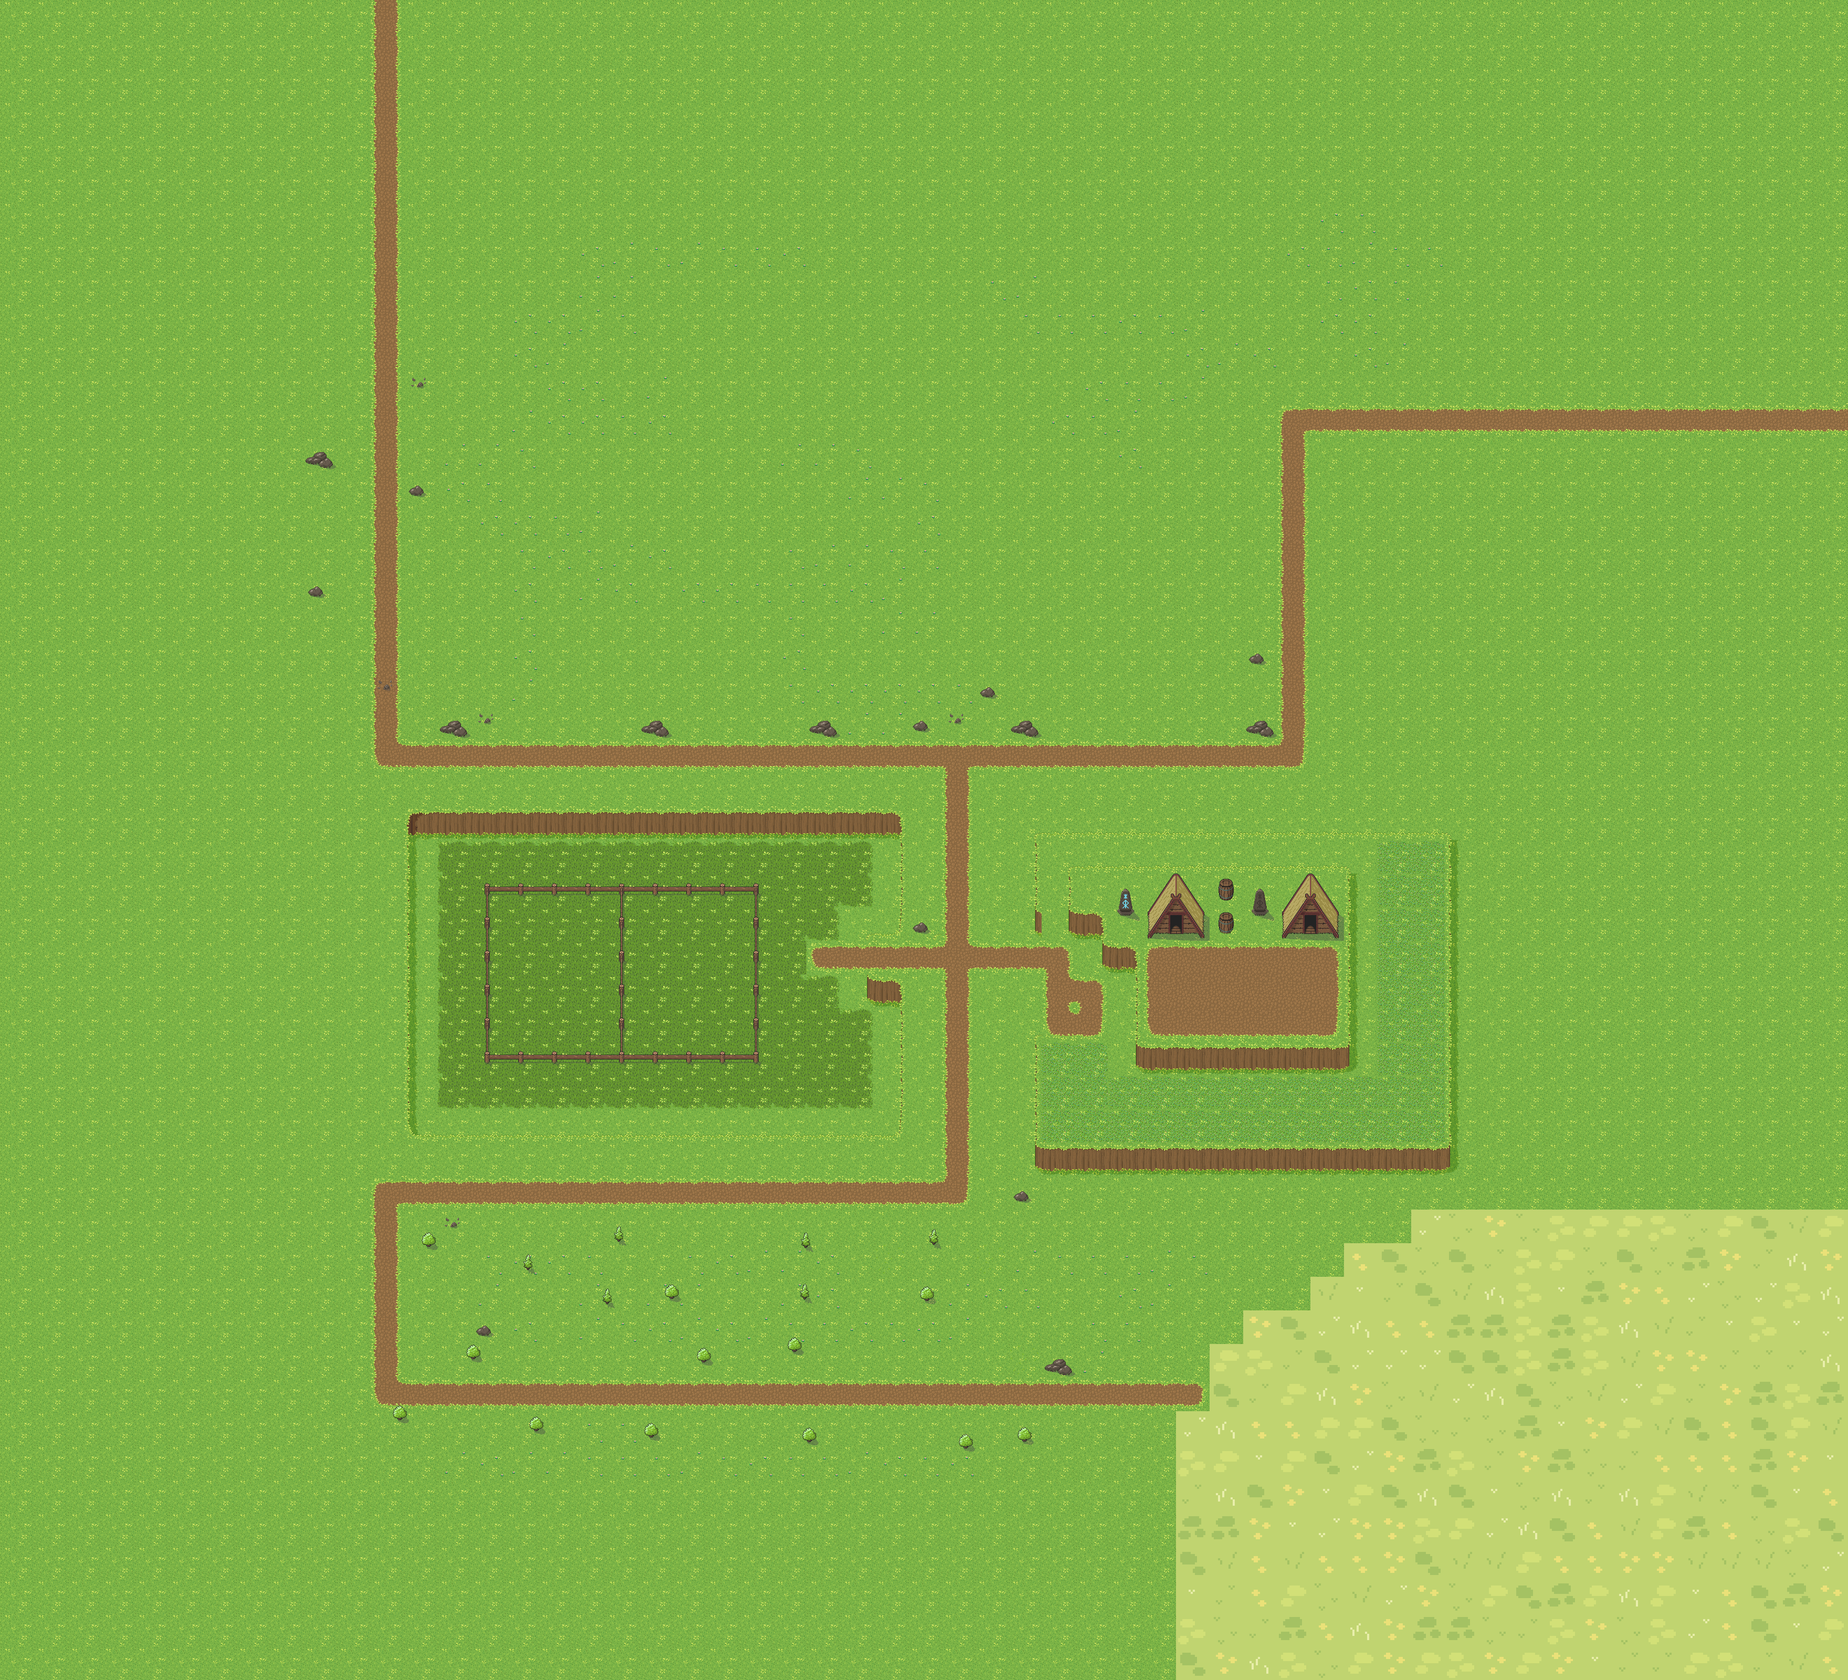
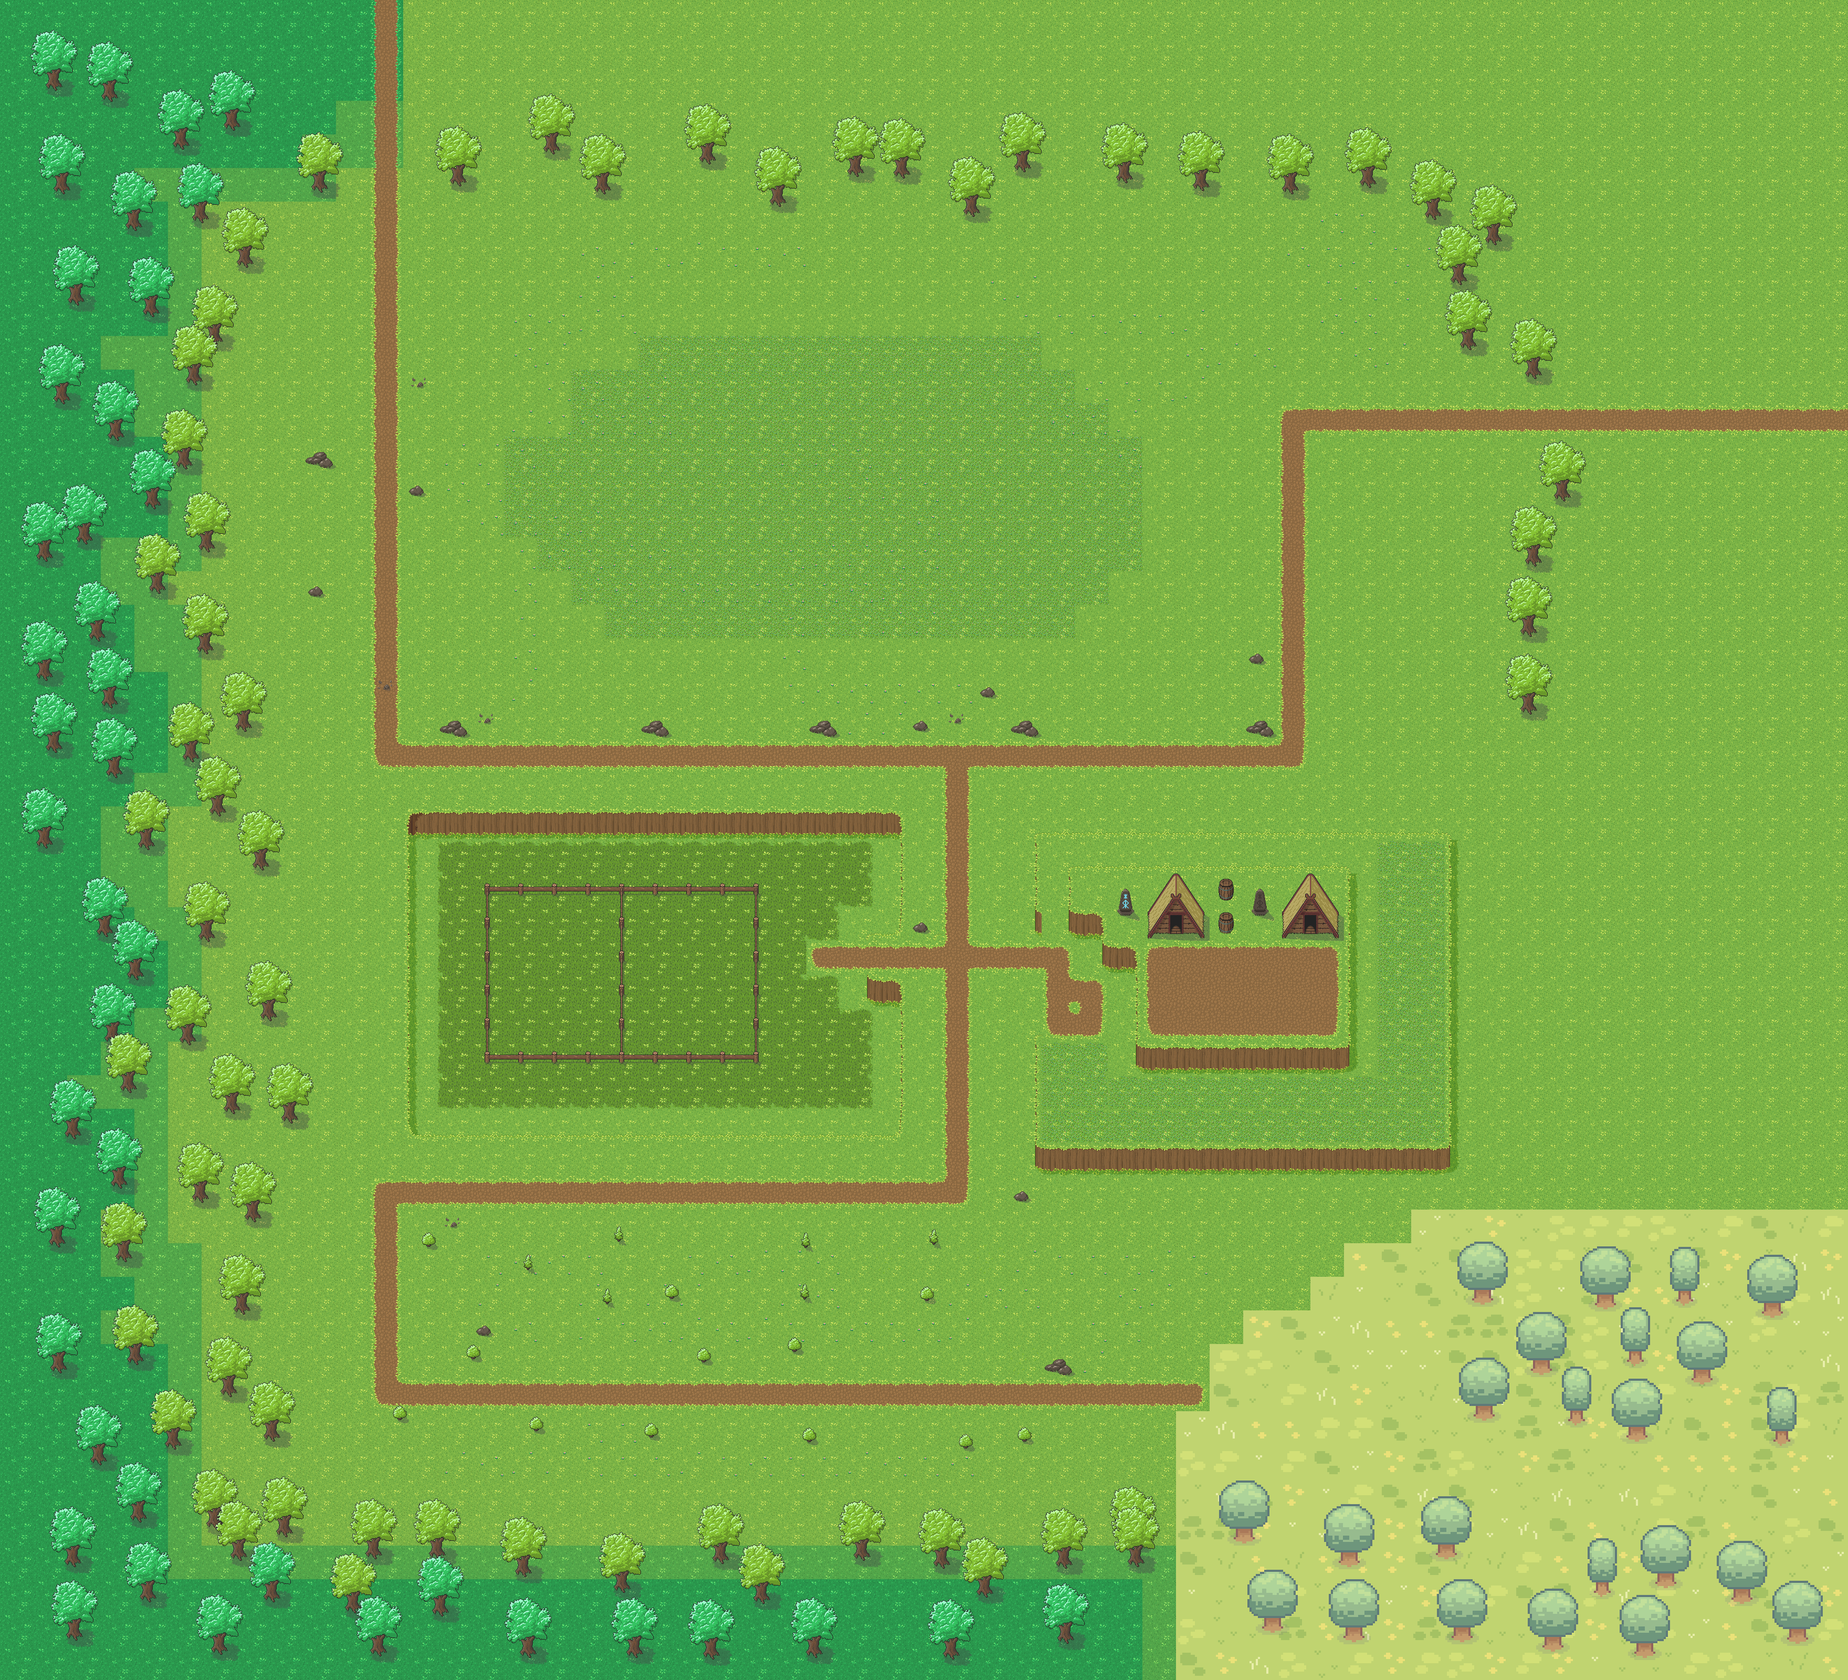
- Adjusted completed_objectives.txt - Added some trees to to Forest.tmx/Forest.png - Added some new plans to notes.txt - Added map constants to settings.py - Added comments and type hint to soil.py, moreover soil tile sprite checker now uses switch-case (match-case in python) - Updated README.md

diff --git a/code/soil.py b/code/soil.py
@@ -46,7 +46,7 @@ class Plant(pygame.sprite.Sprite):
         self.image = self.frames[self.age]
         self.y_offset = -16 if plant_type == "corn" else -8
         self.rect = self.image.get_rect(midbottom=soil.rect.midbottom +
-                                        pygame.math.Vector2(0, self.y_offset))
+                                                  pygame.math.Vector2(0, self.y_offset))
         self.z = LAYERS['ground plant']
 
     def grow(self):
@@ -64,11 +64,13 @@ class Plant(pygame.sprite.Sprite):
 
             self.image = self.frames[int(self.age)]
             self.rect = self.image.get_rect(midbottom=self.soil.rect.midbottom +
-                                            pygame.math.Vector2
-                                            (0, self.y_offset))
+                                                      pygame.math.Vector2
+                                                      (0, self.y_offset))
 
 
 class SoilLayer:
+    grid: list[list[str]]
+
     def __init__(self, all_sprites: pygame.sprite.Group,
                  collision_sprites: pygame.sprite.Group):
         # sprite groups
@@ -84,6 +86,7 @@ class SoilLayer:
 
         self.create_soil_grid()
         self.create_hit_rects()
+
 
         # sounds
         self.hoe_sound = pygame.mixer.Sound('../audio/hoe.wav')
@@ -169,7 +172,13 @@ class SoilLayer:
         is_watered = 'W' in cell
         return is_watered
 
-    def plant_seed(self, target_pos, selected_seed):
+    def plant_seed(self, target_pos, selected_seed: str):
+        """
+        Plants a seed in the relevant soil tile
+        :param target_pos: target location of seed planting
+        :param selected_seed: the seed type which will be planted
+        :return: None
+        """
         for soil_sprite in self.soil_sprites:
             if soil_sprite.rect.collidepoint(target_pos):
                 self.plant_sound.play()
@@ -188,10 +197,18 @@ class SoilLayer:
         return False
 
     def update_plants(self):
+        """
+        Grows the plants, originally used for night cycle
+        :return: None
+        """
         for plant in self.plant_sprites.sprites():
             plant.grow()
 
     def create_soil_tiles(self):
+        """
+        Sets the tile of soil based on what other soil tiles there are beside it
+        :return: None
+        """
         self.soil_sprites.empty()
         for index_row, row in enumerate(self.grid):
             for index_col, cell in enumerate(row):
@@ -205,30 +222,49 @@ class SoilLayer:
 
                     tile_type = 'o'
 
-                    # all sides
-                    if all((t, r, b, l)): tile_type = 'x'
+                    # switch case rather than if statement (added 27-05-2023)
+                    match (t, l, b, r):
+                        # all sides
+                        case (True, True, True, True):
+                            tile_type = 'x'
 
-                    # horizontal tiles only
-                    if l and not any(((t, r, b))): tile_type = 'r'
-                    if r and not any(((t, l, b))): tile_type = 'l'
-                    if l and r and not any(((t, b))): tile_type = 'lr'
+                        # horizontal tiles only
+                        case (False, True, False, False):
+                            tile_type = 'r'
 
-                    # vertical tiles only
-                    if t and not any(((r, l, b))): tile_type = 'b'
-                    if b and not any(((t, r, l))): tile_type = 't'
-                    if t and b and not any(((r, l))): tile_type = 'tb'
+                        case (False, False, False, True):
+                            tile_type = 'l'
 
-                    # corners
-                    if l and b and not any(((t, r))): tile_type = 'tr'
-                    if r and b and not any(((t, l))): tile_type = 'tl'
-                    if l and t and not any(((b, r))): tile_type = 'br'
-                    if r and t and not any(((b, l))): tile_type = 'bl'
+                        case (False, True, False, True):
+                            tile_type = 'lr'
 
-                    # T shapes
-                    if all((t, b, r)) and not l: tile_type = 'tbr'
-                    if all((t, b, l)) and not r: tile_type = 'tbl'
-                    if all((t, l, r)) and not b: tile_type = 'lrb'
-                    if all((l, b, r)) and not t: tile_type = 'lrt'
+                        # vertical tiles only
+                        case (True, False, False, False):
+                            tile_type = 'b'
+                        case (False, False, True, False):
+                            tile_type = 't'
+                        case (True, False, True, False):
+                            tile_type = 'tb'
+
+                        # corners
+                        case (False, True, True, False):
+                            tile_type = 'tr'
+                        case (False, False, True, True):
+                            tile_type = 'tl'
+                        case (True, True, False, False):
+                            tile_type = 'br'
+                        case (True, False, False, True):
+                            tile_type = 'bl'
+
+                        # T shapes
+                        case (True, False, True, True):
+                            tile_type = 'tbr'
+                        case (True, True, True, False):
+                            tile_type = 'tbl'
+                        case (True, True, False, True):
+                            tile_type = 'lrb'
+                        case (False, True, True, True):
+                            tile_type = 'lrt'
 
                     SoilTile(pos=(index_col * TILE_SIZE, index_row * TILE_SIZE),
                              surf=self.soil_surfs[tile_type],

diff --git a/code/level.py b/code/level.py
@@ -27,7 +27,7 @@ class Level:
         self.slime_sprites = pygame.sprite.Group()  # used in forest, for now
 
         self.soil_layer = SoilLayer(self.all_sprites, self.collision_sprites)
-        self.level_no = [0]
+        self.level_no = 0
         self.setup()
         self.overlay = Overlay(self.player)
         self.transition = Transition(self.reset, self.player)
@@ -67,7 +67,7 @@ class Level:
         :param level_no: This refers to the current location, by default is 0
         1 will be used for forest map
         """
-        if self.level_no[0] == 0:
+        if self.level_no == 0:
             tmx_data = load_pygame('../data/map.tmx')
 
             # house
@@ -133,8 +133,8 @@ class Level:
                                          sprite_dict=sprite_dict,
                                          toggle_shop=self.toggle_shop,
                                          toggle_inventory=self.toggle_inventory,
-                                         map_lvl=[[self.level_no, ],
-                                                  self.setup],
+                                         get_map_level=self.get_map_number,
+                                         set_map_level=self.set_map_number,
                                          play_fishing_theme=
                                          self.play_fishing_theme)
                 if obj.name == 'Bed':
@@ -214,8 +214,8 @@ class Level:
                                          sprite_dict=sprite_dict,
                                          toggle_shop=self.toggle_shop,
                                          toggle_inventory=self.toggle_inventory,
-                                         map_lvl=[[self.level_no, ],
-                                                  self.setup],
+                                         get_map_level=self.get_map_number,
+                                         set_map_level=self.set_map_number,
                                          play_fishing_theme=
                                          self.play_fishing_theme)
 
@@ -234,12 +234,12 @@ class Level:
                                                           '/move')}
 
                     Slime(pos=(obj.x + TILE_SIZE // 4, obj.y + TILE_SIZE // 4),
-                          frames=slime_frames,
-                          groups=[self.all_sprites, self.slime_sprites],
-                          z=LAYERS['main'],
-                          player_pos=self.player.get_pos,
-                          detection_area=self.mob_area["slime"],
-                          reduce_player_hp=self.player.reduce_hp)
+                               frames=slime_frames,
+                               groups=[self.all_sprites, self.slime_sprites],
+                               z=LAYERS['main'],
+                               player_pos=self.player.get_pos,
+                               detection_area=self.mob_area["slime"],
+                               reduce_player_hp=self.player.reduce_hp)
 
             # world
             Generic(
@@ -274,6 +274,20 @@ class Level:
         elif not self.sky.night and not self.fishing_theme_on:
             self.active_music.stop()
             self.active_music.play()
+
+    def get_map_number(self):
+        """
+        :return: int representing current map number
+        """
+        return self.level_no
+
+    def set_map_number(self, level_no):
+        """
+        Sets the map number
+        :return: None
+        """
+        self.level_no = level_no
+        self.setup()
 
     def player_add(self, item: str):
         """
@@ -411,6 +425,13 @@ class CameraGroup(pygame.sprite.Group):
                     self.display_surface.blit(sprite.image, offset_rect)
 
                     # analytics
+                    # slime = getattr(sprite, "slime", None)
+                    # if callable(slime):
+                    #     offset_rect = slime()
+                    #     offset_rect.center -= self.offset
+                    #     pygame.draw.rect(self.display_surface, 'red',
+                    #                      offset_rect, 5)
+                    #
                     # if sprite == player:
                     #     pygame.draw.rect(self.display_surface, 'red',
                     #                      offset_rect, 5)

diff --git a/code/player.py b/code/player.py
@@ -13,7 +13,7 @@ class Player(pygame.sprite.Sprite):
 
     def __init__(self, pos, sprite_dict,
                  toggle_shop: Callable, toggle_inventory: Callable,
-                 map_lvl: list,
+                 get_map_level: Callable, set_map_level: Callable,
                  play_fishing_theme: Callable):
         super().__init__(sprite_dict["group"])
 
@@ -43,7 +43,8 @@ class Player(pygame.sprite.Sprite):
         self.font = pygame.font.Font('../font/LycheeSoda.ttf', 30)
         self.display_text = []
 
-        self.map_lvl = map_lvl
+        self.get_map_level = get_map_level
+        self.set_map_level = set_map_level
 
         # hp
         self.hp = self.max_hp = 20
@@ -78,15 +79,15 @@ class Player(pygame.sprite.Sprite):
 
         # inventory
         self.item_inventory = {
-            'wood':   stats[1][0],
-            'apple':  stats[1][1],
-            'corn':   stats[1][2],
+            'wood': stats[1][0],
+            'apple': stats[1][1],
+            'corn': stats[1][2],
             'tomato': stats[1][3],
             'fish': stats[1][4]
         }
         # seed inventory
         self.seed_inventory = {
-            'corn':   stats[2][0],
+            'corn': stats[2][0],
             'tomato': stats[2][1]
         }
 
@@ -121,10 +122,9 @@ class Player(pygame.sprite.Sprite):
                     self.stamina -= PLAYER_STAMINA_STATS['tree']
 
             for slime in self.slime_sprites.sprites():
-
-                if slime.rect.collidepoint(self.target_pos):
+                slime.slime()
+                if slime.hitbox.collidepoint(self.target_pos):
                     slime.damage()
-
 
         if self.selected_tool == 'water':
             self.soil_layer.water(self.target_pos)
@@ -141,6 +141,15 @@ class Player(pygame.sprite.Sprite):
 
     def get_target_pos(self):
 
+        self.target_pos = self.rect.center + PLAYER_TOOL_OFFSET[
+            self.status.split('_')[0]]
+
+
+    def get_bigger_target_pos(self):
+        """
+        Intended to be 3 points rather than one (in get_target_pos it is one), which should help in combating mobs
+        :return:
+        """
         self.target_pos = self.rect.center + PLAYER_TOOL_OFFSET[
             self.status.split('_')[0]]
 
@@ -215,8 +224,8 @@ class Player(pygame.sprite.Sprite):
                     self.tool_index < len(self.tools) else 0
                 self.selected_tool = self.tools[self.tool_index]
                 tool_swp_surf = self.font.render(
-                                 f'{GAME_MESSAGES["TEXT_CHOICES"][0]} '
-                                 f'{self.selected_tool}', False, 'Black')
+                    f'{GAME_MESSAGES["TEXT_CHOICES"][0]} '
+                    f'{self.selected_tool}', False, 'Black')
                 tool_swp_rect = tool_swp_surf.get_rect(topright=
                                                        GAME_MESSAGES["TXT_BEG"])
                 tool_timer = Timer(GAME_MESSAGES["TEXT_TIMER"])
@@ -250,8 +259,7 @@ class Player(pygame.sprite.Sprite):
                     if collided_interaction_sprites[0].name == 'Trader':
                         self.toggle_shop()
                     elif collided_interaction_sprites[0].name == 'Forest':
-                        self.map_lvl[0][0][0] = 1
-                        self.map_lvl[1]()
+                        self.set_map_level(1)
                     else:
                         self.auto_save_night()
 

diff --git a/code/mobs.py b/code/mobs.py
@@ -17,8 +17,8 @@ class Slime(pygame.sprite.Sprite):
         self.image = self.frames["idle"][self.frame_index]
         self.rect = self.image.get_rect(topleft=pos)
         self.z = z
-        self.hitbox = self.rect.copy().inflate(-self.rect.width * 0.2,
-                                               -self.rect.height * 0.75)
+        self.hitbox = self.rect.copy().inflate(self.rect.width * 0.2,
+                                               self.rect.height * 0.75)
 
         super().__init__(groups)
 
@@ -100,6 +100,15 @@ class Slime(pygame.sprite.Sprite):
             self.axe_sound.play()
         else:
             self.status = "death"
+
+    def slime(self):
+        """
+        Added this function in order for it to be easier for the player to hit the slime.
+        :return: pygame rect which has the hitbox of the slime
+        """
+        self.hitbox = self.rect.copy().inflate(self.rect.width * 0.2,
+                                               self.rect.height * 0.75)
+        return self.hitbox
 
     def update(self, dt):
         self.player_dmg_timer.update()

diff --git a/code/main.py b/code/main.py
@@ -2,6 +2,7 @@ import pygame
 import sys
 from settings import *
 from level import Level
+from time import sleep
 
 
 class Game:
@@ -25,7 +26,7 @@ class Game:
                     self.level.music.set_volume(0.3)
 
                 if keys[pygame.K_p]:
-                    print(self.level.player.seed_inventory)
+                    print(self.level.level_no)
 
             dt = self.clock.tick(60) / 1000
             self.level.run(dt)

diff --git a/code/settings.py b/code/settings.py
@@ -96,3 +96,8 @@ GAME_MESSAGES = {
     "TEXT_TIMER": 700,
     "TEXT_CHOICES": ["SWAPPED TOOL"]
 }
+
+MAP_NUMBERS = {
+    "Starting": 0,
+    "Forest": 1,
+}

diff --git a/README.md b/README.md
@@ -2,3 +2,6 @@
 My version of stardew valley. Implemented in python using pygame and pytmx libraries. 
 
 Demo can be found here: https://youtu.be/nlLictYVIMg
+
+Part two of the demo can be found here: 
+https://youtu.be/ng0aYZwASwo
